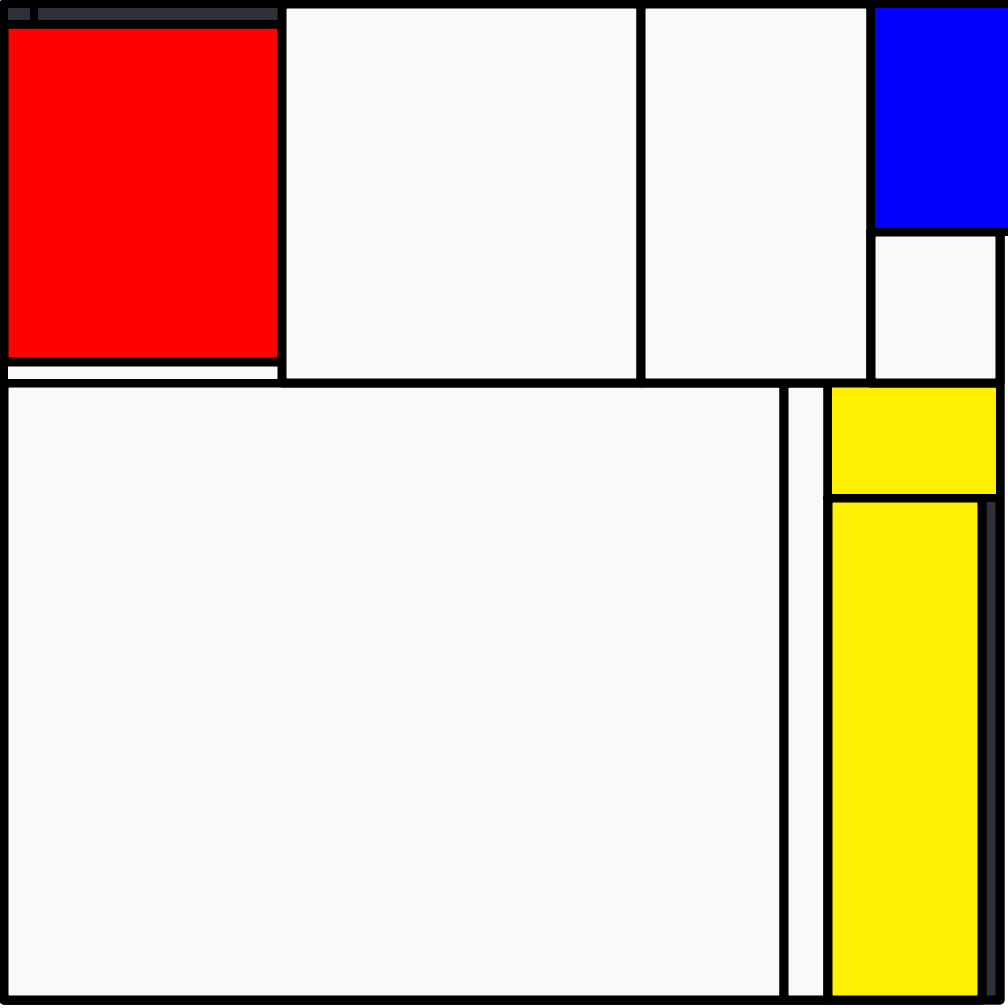
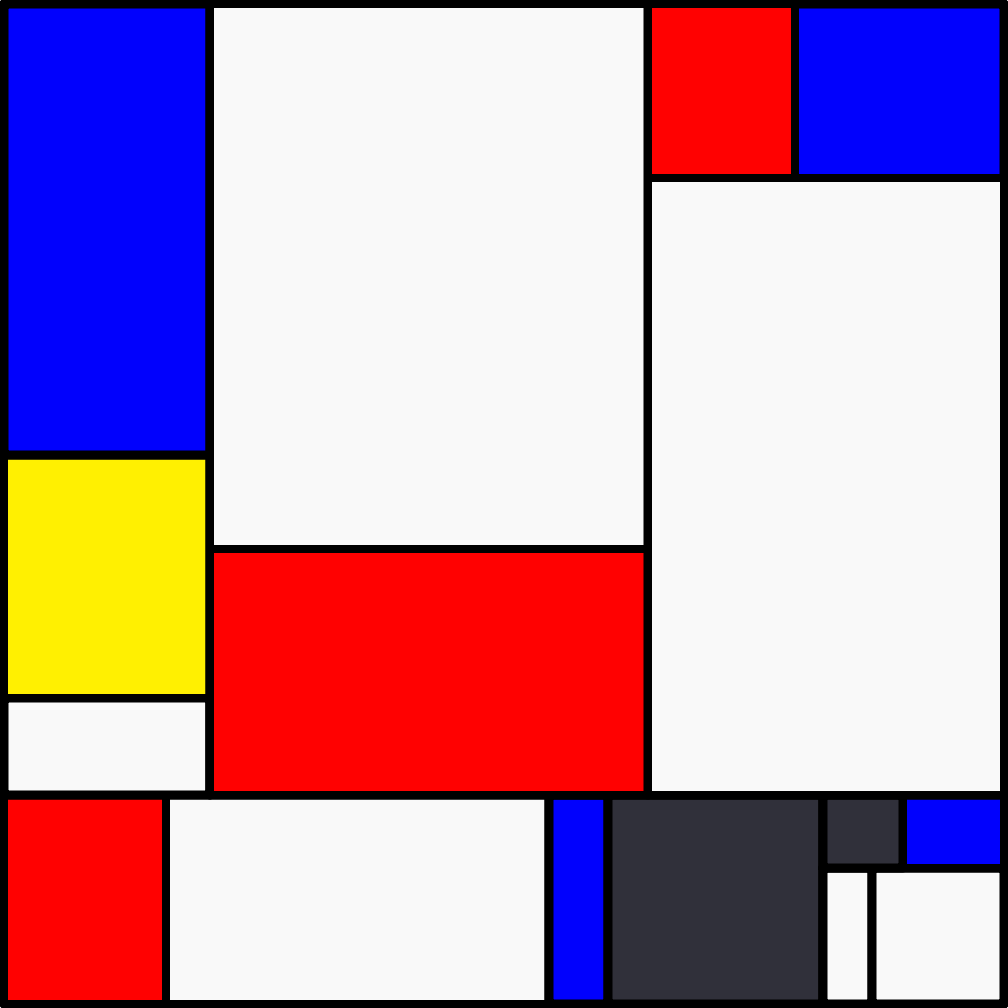
Update Mondrian

diff --git a/mondrian/main.go b/mondrian/main.go
@@ -90,7 +90,7 @@ func main() {
 
 	rand.Seed(time.Now().UnixNano())
 
-	base := Rectangle{Point{pad, pad}, Point{1000, 1000}}
+	base := Rectangle{Point{pad, pad}, Point{1000 + pad, 1000 + pad}}
 	rects := []Rectangle{}
 	rects = append(rects, base)
 
